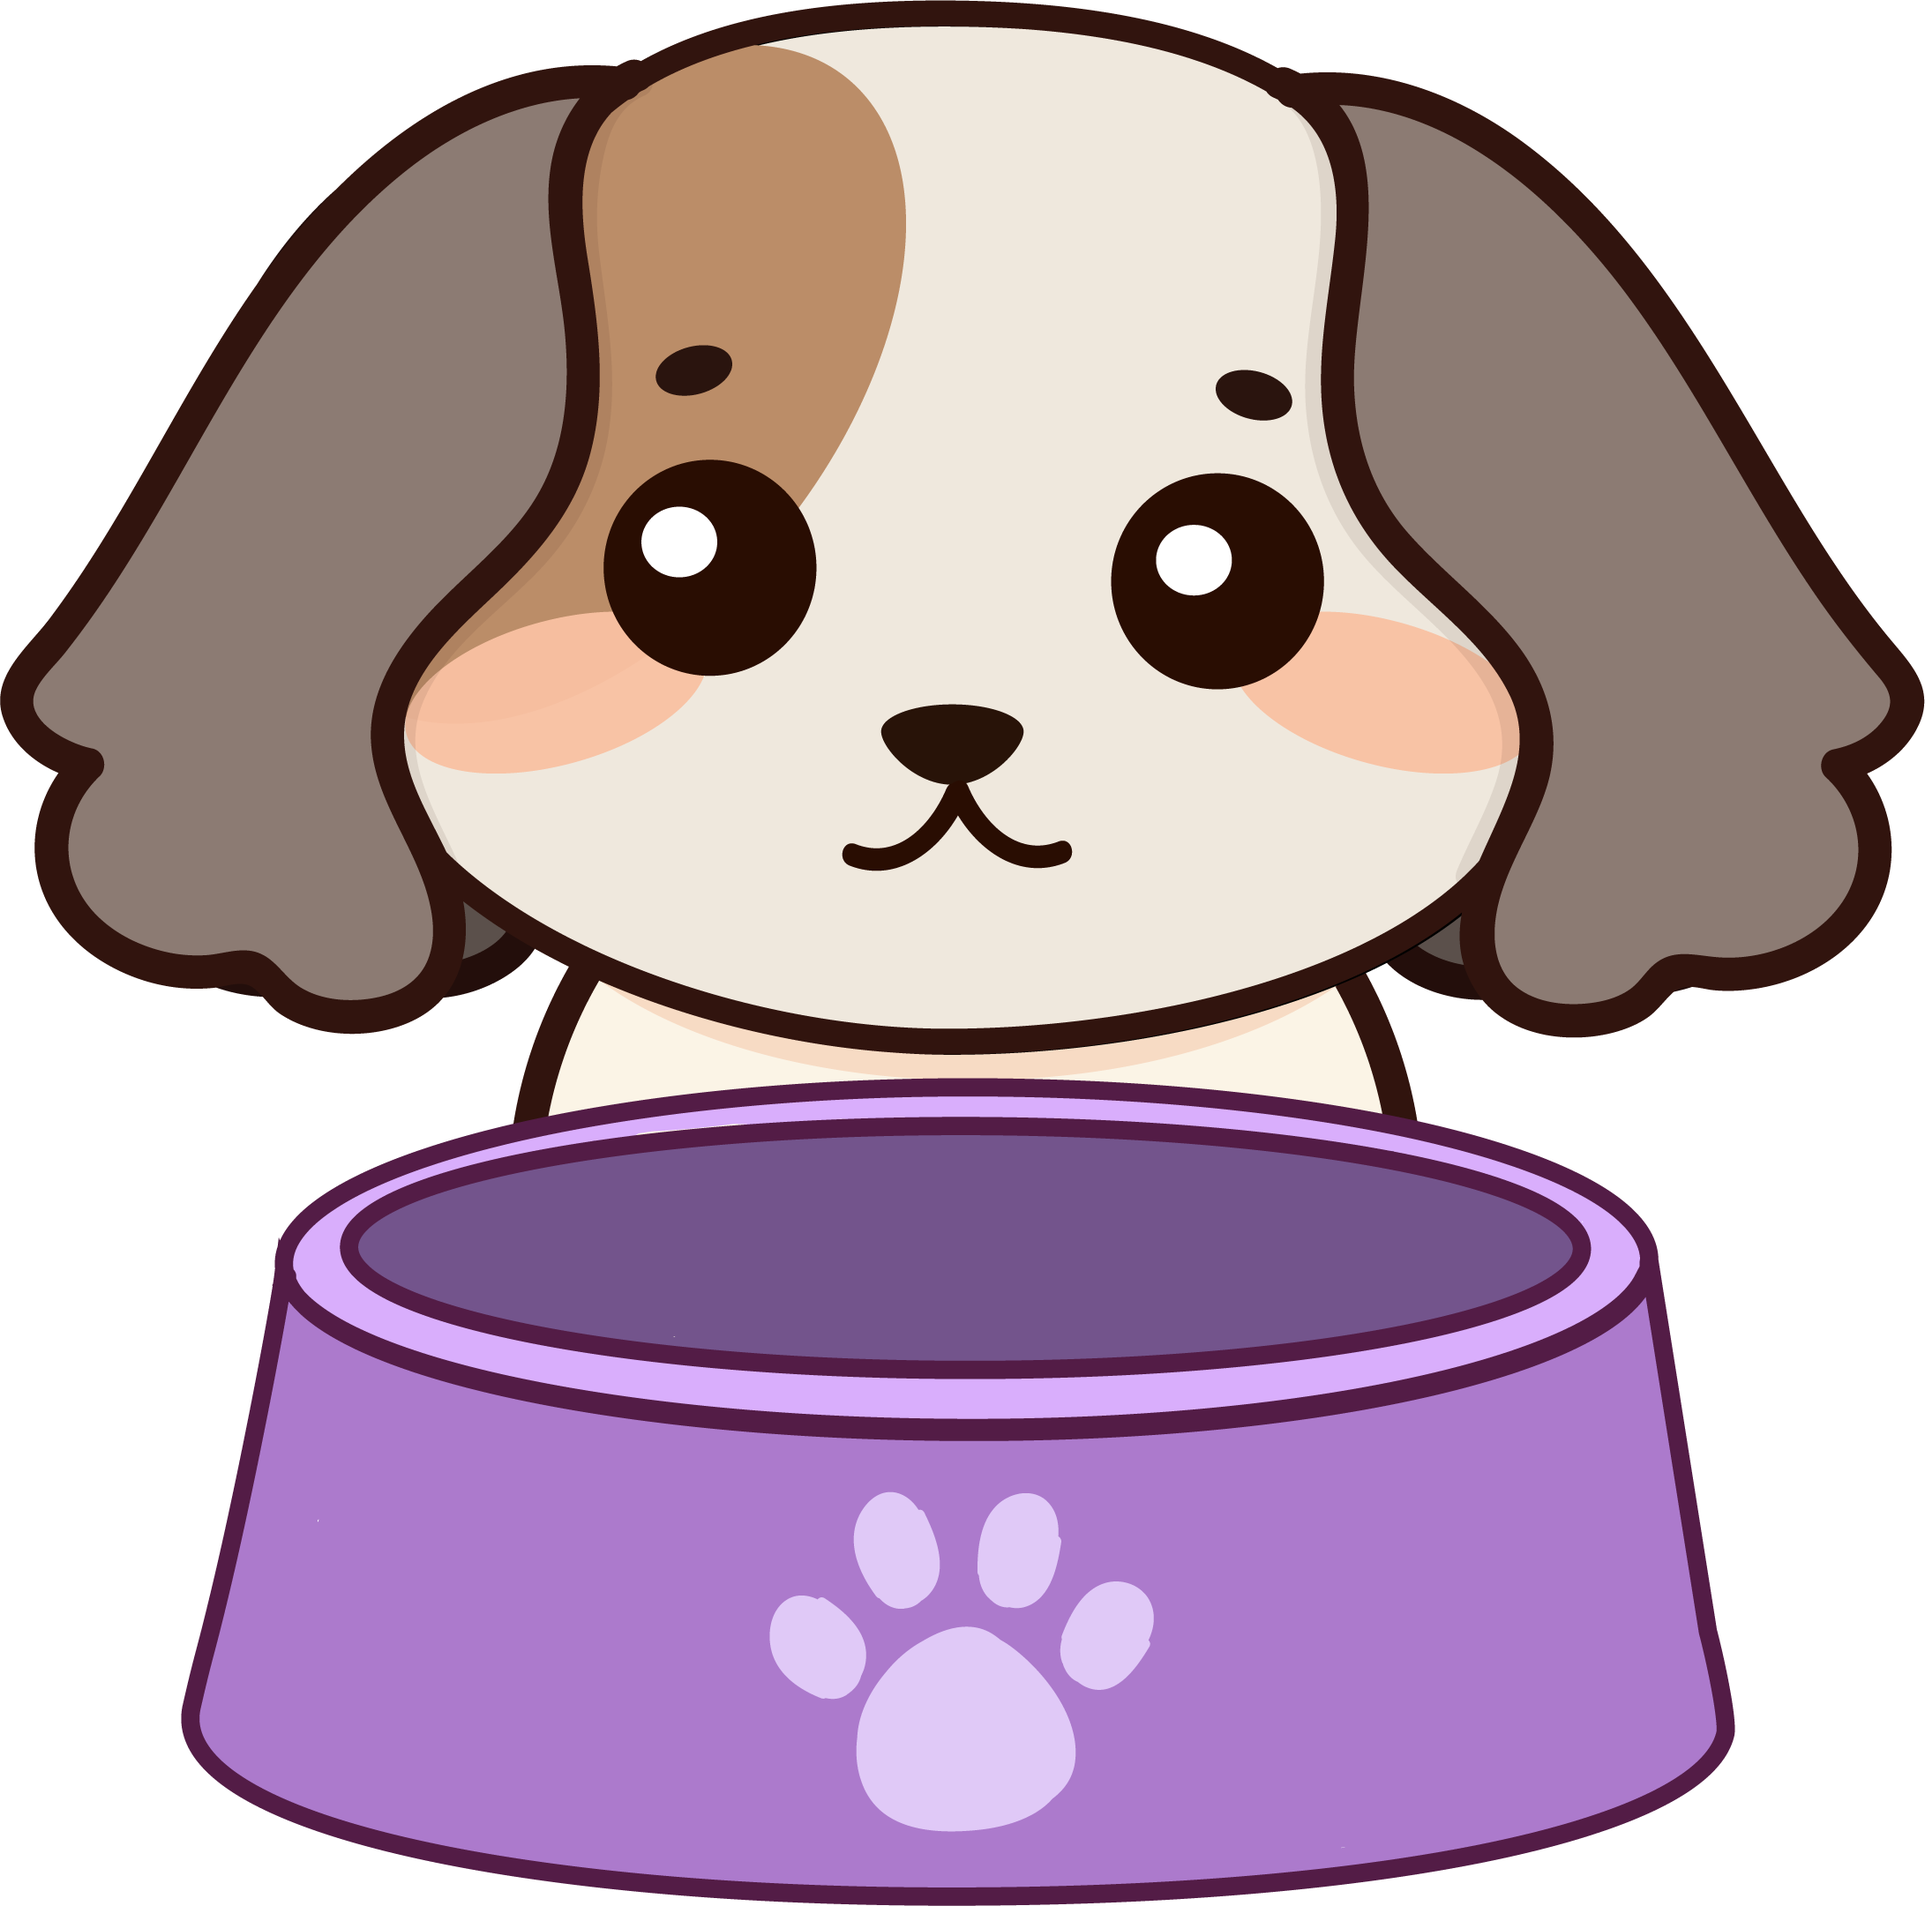
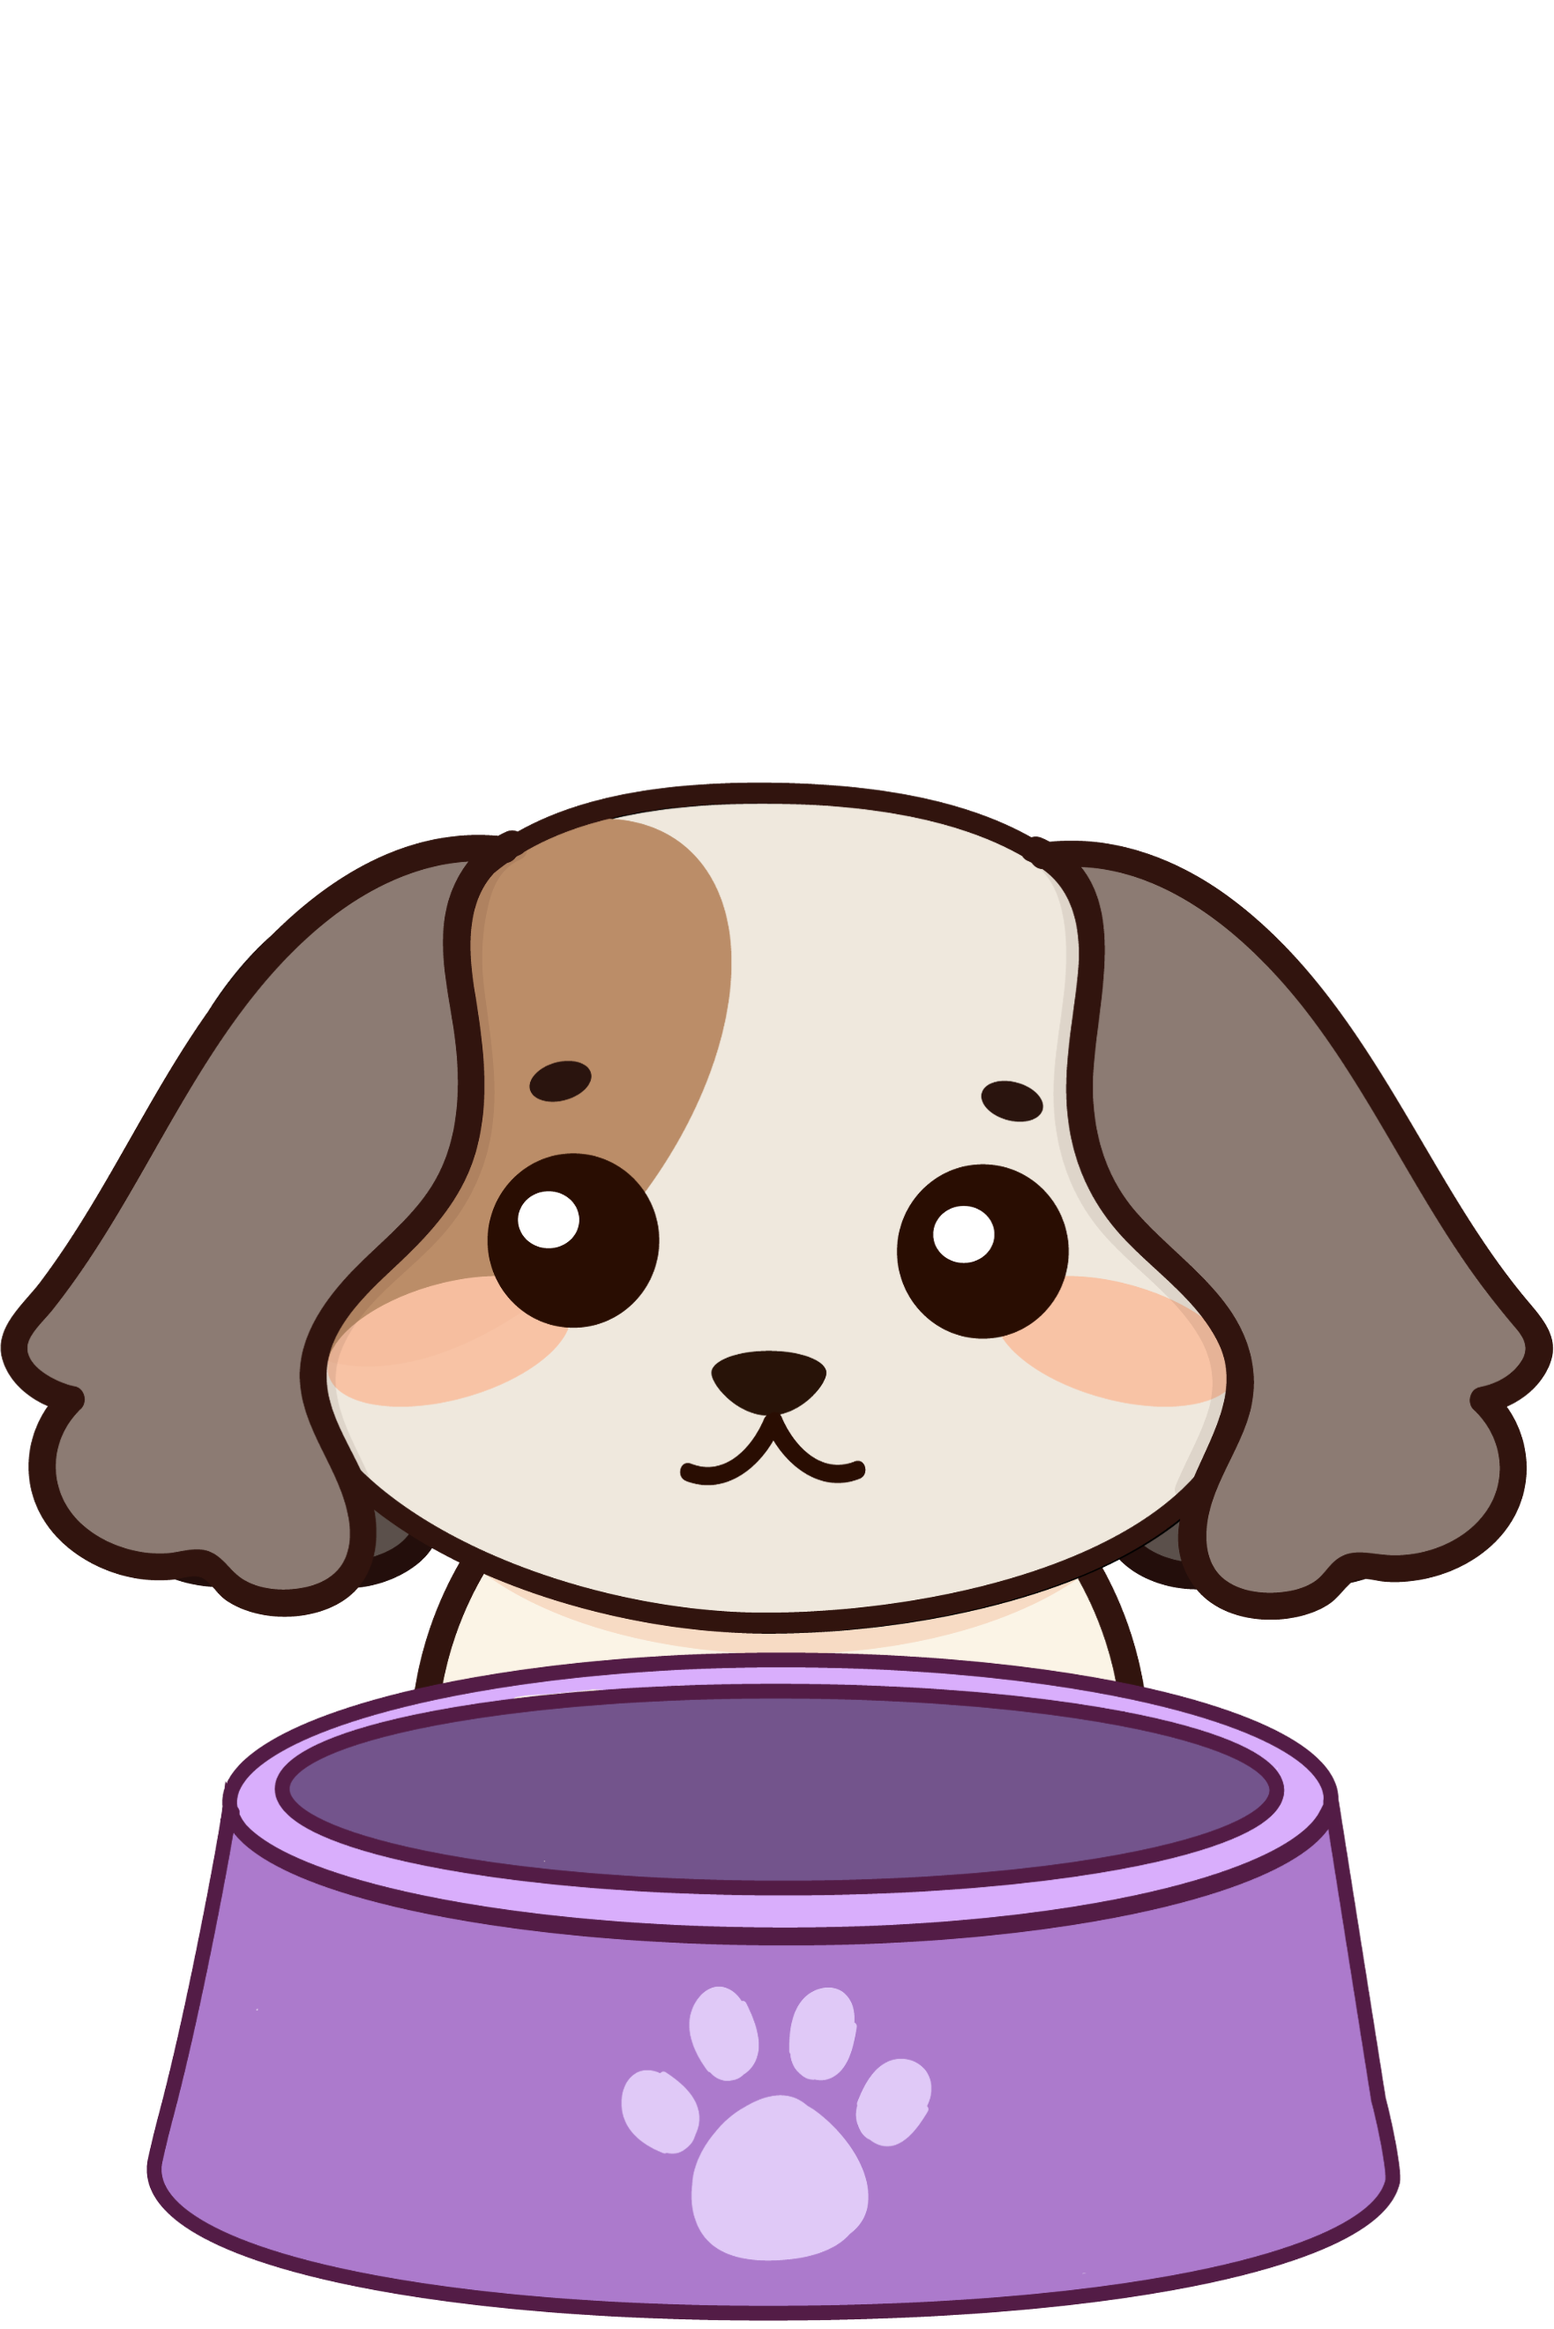
Cafe dogs and division implemented

diff --git a/scripts/cafe.js b/scripts/cafe.js
@@ -3,6 +3,7 @@ const variants = {
   cat: 4,
   hamster: 3,
   bird: 4,
+  dog: 2,
 };
 
 // ----- ENVIRONMENT SETUP
@@ -17,7 +18,8 @@ var petNum, petType, treatType;
 // Choose mode & number goal
 var modeText = "";
 modeText += `<span onclick="chooseMode('#')" class="btn clickVan">#</span> `;
-modeText += `<span onclick="chooseMode('+')" class="btn clickVan">+</span>`;
+modeText += `<span onclick="chooseMode('+')" class="btn clickVan">+</span> `;
+modeText += `<span onclick="chooseMode('÷')" class="btn clickVan">÷</span>`;
 speechBox.innerHTML = modeText;
 
 // ----- CUSTOM CURSOR
@@ -108,6 +110,17 @@ function chooseMode(mode) {
     const y = countTo - x;
 
     speechBox.innerHTML = `${x} + ${y}`;
+  } else if (mode == "÷") {
+    // Generate number 1-12 for division
+    countTo = Math.floor(Math.random() * 12) + 1;
+
+    // Generate factor 1-10
+    let fac2 = Math.floor(Math.random() * 10) + 1;
+    // Get other factor
+    let fac1 = countTo * fac2;
+
+    // Display
+    speechBox.innerHTML = `${fac1} ÷ ${fac2}`;
   } else {
     // Generate number 1-12 for regular
     countTo = Math.floor(Math.random() * 12) + 1;
@@ -266,6 +279,8 @@ function manageCount() {
       emoji = "🐟";
     } else if (petType == "hamster" || petType == "bird") {
       emoji = "🌻";
+    } else if (petType == "dog") {
+      emoji = "🦴";
     }
 
     emojiConfetti.addConfetti({

diff --git a/cafe.html b/cafe.html
@@ -40,6 +40,7 @@
         <div class="modalBtn btn petChoice" onClick="choosePet('bird')">
           Bird
         </div>
+        <div class="modalBtn btn petChoice" onClick="choosePet('dog')">Dog</div>
       </div>
     </div>
 
